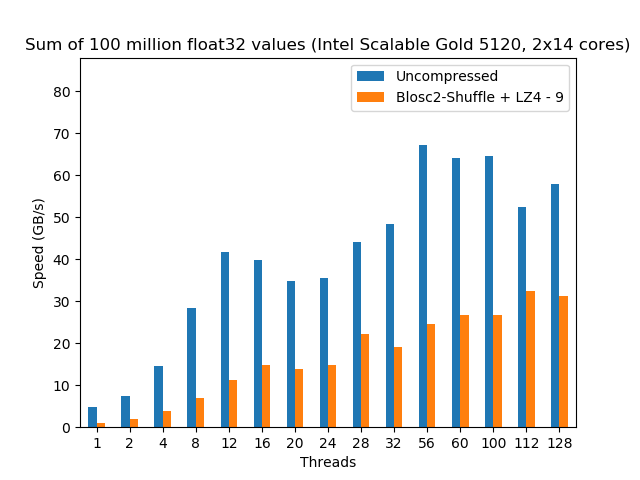
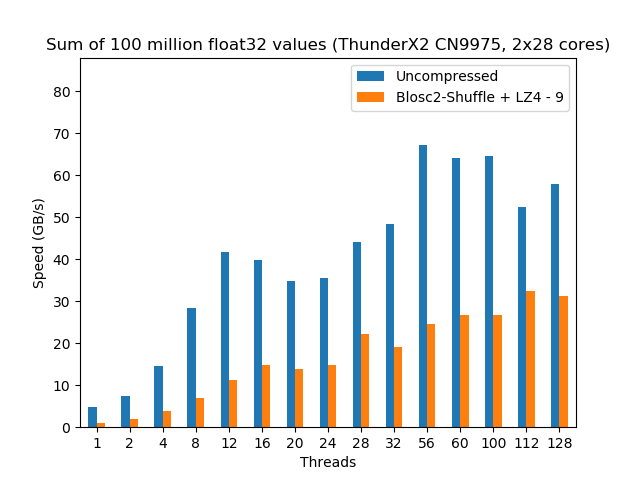
Update plots for ARM and other fixes to eat Intel's pie blog

Changed region(s): [[0.0312, 0.0625, 1.0, 0.125]]

diff --git a/posts/arm-memory-walls-followup.rst b/posts/arm-memory-walls-followup.rst
@@ -14,11 +14,15 @@ Is ARM Hungry Enough to Eat Intel's Favorite Pie?
 
 **Note**: This entry is a follow-up of the `Breaking Down Memory Walls <http://blosc.org/posts/breaking-memory-walls/>`_ blog.  Please make sure that you have read it if you want to fully understand all the benchmarks performed here.
 
-At the beginning of the 1990s the computing world was mainly using RISC (Reduced Instruction Set Computer) architectures, namely SPARC, Alpha, Power and MIPS CPUs for performing serious calculations and Intel CPUs were seen as something that was appropriate just to run essentially personal applications on PCs, but almost nobody was thinking about them as a serious contender for the High Performance Computing (HPC) arena.  But Intel had an argument that almost nobody was ready to recognize how important it could become; with its dominance of the PC market it quickly ranked to be the largest CPU maker in the world and, with such an enormous revenue, Intel played its cards well and, by the beginning of 2000s, they were able to make of its CISC architecture (Complex Instruction Set Computer) the one with the best compute/price ratio, clearly beating the RISC offerings at that time.  That amazing achievement shut the mouths of CISC critics (to the point that nowadays almost everybody recognizes that performance has very little to do with using RISC or CISC) and cleared the path for Intel to dominate not only the PC world, but also the world of HPC for the next 20 years.
+At the beginning of the 1990s the computing world was mainly using RISC (Reduced Instruction Set Computer) architectures, namely SPARC, Alpha, Power and MIPS CPUs for performing serious calculations and Intel CPUs were seen as something that was appropriate just to run essentially personal applications on PCs, but almost nobody was thinking about them as a serious contender for server environments.  But Intel had an argument that almost nobody was ready to recognize how important it could become; with its dominance of the PC market it quickly ranked to be the largest CPU maker in the world and, with such an enormous revenue, Intel played its cards well and, by the beginning of 2000s, they were able to make of its CISC architecture (Complex Instruction Set Computer) the one with the best compute/price ratio, clearly beating the RISC offerings at that time.  That amazing achievement shut the mouths of CISC critics (to the point that nowadays almost everybody recognizes that performance has very little to do with using RISC or CISC) and cleared the path for Intel to dominate not only the PC world, but also the world of server computing for the next 20 years.
 
-Fast forward to the beginning of 2010s, with Intel clearly dominating the market of CPUs for crunching numbers.  However, at the same time something potentially disruptive happened: the market for mobile and embedded systems exploded making `the ARM architecture the most widely used architecture in this area <https://cacm.acm.org/magazines/2011/5/107684-an-interview-with-steve-furber/fulltext>`_.  By 2017, with over 100 billion ARM processors produced, ARM was already the most widely used architecture in the world.  Now, the smart reader will have noted here a clear parallelism between the situation of Intel at the end of 1990s and ARM at the end of 2010s: both companies were responsible of the design of the most used CPUs in the world.  There is an important difference though: while Intel was able to implement its own designs, ARM is leaving the implementation job to third party vendors.  Of course, this fact will have consequences on the way ARM will be competing with Intel (see below).
+Fast forward to the beginning of 2010s, with Intel clearly dominating the market of CPUs for servers.  However, at the same time something potentially disruptive happened: the market for mobile and embedded systems exploded making `the ARM architecture the most widely used architecture in this area <https://cacm.acm.org/magazines/2011/5/107684-an-interview-with-steve-furber/fulltext>`_.  By 2017, with over 100 billion ARM processors produced, ARM was already the most widely used architecture in the world.  Now, the smart reader will have noted here a clear parallelism between the situation of Intel at the end of 1990s and ARM at the end of 2010s: both companies were responsible of the design of the most used CPUs in the world.  There was an important difference though: while Intel was able to implement its own designs, ARM was leaving the implementation job to third party vendors.  Of course, this fact will have consequences on the way ARM will be competing with Intel (see below).
 
-So with ARM CPUs dominating the world of mobile and embedded, the question is whether ARM would be interested in having a stab at the PC market and, by extension, to the high performance computing during the 2020s decade or they will renounce to that because they comfortable enough with the current situation?  In 2018 ARM provided an important hint to answer this question: they really want to push hard for the client market (PCs and laptops) with the `introduction of the Cortex A76 CPU <https://www.anandtech.com/show/13226/arm-unveils-client-cpu-performance-roadmap>`_ which aspires to redefine the capability of ARM to compete with Intel at its own game:
+
+ARM Plans for Improving CPU Performance
+---------------------------------------
+
+So with ARM CPUs dominating the world of mobile and embedded, the question is whether ARM would be interested in having a stab at the client market (laptops and PC desktops) and, by extension, to the server computing market during the 2020s decade or they would renounce to that because they comfortable enough with the current situation?  In 2018 ARM provided an important hint to answer this question: they really want to push hard for the client market with the `introduction of the Cortex A76 CPU <https://www.anandtech.com/show/13226/arm-unveils-client-cpu-performance-roadmap>`_ which aspires to redefine the capability of ARM to compete with Intel at its own game:
 
 .. image:: /images/arm-memory-walls-followup/arm-compute-plans.png
    :scale: 75 %
@@ -32,7 +36,7 @@ In the next sections we are trying to bring more hints (experimentally tested) o
 The Kirin 980 CPU
 -----------------
 
-Here we are going to analyze Huawei's Kirin 980 CPU, a SoC (System On a Chip) that uses the ARM A76 core internally.  This is an example of an internal IP core design of ARM that is licensed to be used in a CPU chipset (or SoC) by another vendor (Huawei in this case).  The Kirin 980 wears 4 A76 cores plus 4 A55 cores, but the more powerful ones are the A76 (the A55 are more headed to do light tasks with very little energy consumption, which is critical for phones).  The A76 core is designed to be implemented with a 7nm technology (as it is the case here), and supports ARM's DynamIQ technology which allows scalability to target the specific requirements of a SoC.  In our case the Kirin 980 is running in a phone (Humawei's Mate 20), and in this scenario the power dissipation (TDP) cannot exceed the 4 W figure, so DynamIQ should try to be very conservative here and avoid putting too many cores active at the same time.
+Here we are going to analyze `Huawei's Kirin 980 CPU <https://www.anandtech.com/show/13503/the-mate-20-mate-20-pro-review>`_ , a SoC (System On a Chip) that uses the ARM A76 core internally.  This is a fine example of an internal IP core design of ARM that is licensed to be used in a CPU chipset (or SoC) by another vendor (Huawei in this case).  The Kirin 980 wears 4 A76 cores plus 4 A55 cores, but the more powerful ones are the A76 (the A55 are more headed to do light tasks with very little energy consumption, which is critical for phones).  The A76 core is designed to be implemented using a 7nm technology (as it is the case for the Kirin 980, the second SoC in the world to use a 7 nm node, after Apple A12), and supports ARM's DynamIQ technology which allows scalability to target the specific requirements of a SoC.  In our case the Kirin 980 is running in a phone (Humawei's Mate 20), and in this scenario the power dissipation (TDP) cannot exceed the 4 W figure, so DynamIQ should try to be very conservative here and avoid putting too many cores active at the same time.
 
 ARM is saying that they designed the `A76 to be a competitor of the Intel Skylake Core i5 <https://arstechnica.com/gadgets/2018/06/arm-promises-laptop-level-performance-in-2019/>`_, so this is what we are going to check here.  For this, we are going to compare a Kirin 980 in a Huawei Mate 20 phone against a Core i5 included in a MacBook Pro (late 2016).  Here it is the side-by-side performance for the precipitation dataset that I used in the `previous blog <http://blosc.org/posts/breaking-memory-walls/>`_:
 
@@ -50,7 +54,7 @@ Here we can already see a couple of things.  First, the speed of the calculation
 
 Second, for the compressed case, the Core i5 is still a 50% faster than the Kirin 980, but the performance scales similarly (up to 4 threads) for both CPUs.  The big news here is that the Core i5 has a TDP of 28 W, whereas for the Kirin 980 is just 4 W (and probably less than that), so that means that ARM's DynamIQ works beautifully so as to allow 4 (powerful) cores to run simultaneously in such a restrictive scenario (remember that we are running this benchmark *inside a phone*).  It is also true that we are comparing an Intel CPU from 2016 against an ARM CPU from 2018 and that nowadays probably we can find Intel exemplars showing a similar performance than this i5 for probably no more than 10 W (e.g. an `i5-8265U with configurable TDP-down <https://ark.intel.com/products/149088/Intel-Core-i5-8265U-Processor-6M-Cache-up-to-3-90-GHz->`_), although I am not really sure how an Intel CPU will perform with such a strict power constraint.  At any rate, the Kirin 980 still consumes less than half of the power than its Intel counterpart --and its price would probably be a fraction of it too.
 
-I believe that these facts are really a good testimony of how serious ARM was on their claim that they were going to catch Intel in the performance side of the things for client devices, and probably with an important advantage in consuming less energy too.  The fact that ARM CPUs are more energy efficient should not be surprising given the experience of ARM in that area for decades.  But another reason for that is the important reduction in the manufacturing technology that ARM has achieved on their new designs (7nm node for ARM vs 14nm node for Intel); undoubtedly, ARM advantage in this area is going to be important for their world-domination plans.
+I believe that these facts are really a good testimony of how serious ARM was on their claim that they were going to catch Intel in the performance side of the things for client devices, and probably with an important advantage in consuming less energy too.  The fact that ARM CPUs are more energy efficient should not be surprising given the experience of ARM in that area for decades.  But another reason for that is the important reduction in the manufacturing technology that ARM has achieved on their new designs (7nm node for ARM vs 14nm node for Intel); undoubtedly, ARM advantage in power consumption is going to be important for their world-domination plans.
 
 
 The ThunderX2 CPU
@@ -70,21 +74,21 @@ So as to check how powerful a ThunderX2 can be, we are going to compare `Thunder
 | |rainfall-thunderx2| | |rainfall-scalable| |
 +----------------------+---------------------+
 
-Here we see that, when no compression is used, while it is true that the Intel scales much better and more predictably, the ThunderX2 is able to reach a similar performance (almost 70 GB/s) than the Intel Scalable when enough threads are thrown at the computing task.  This is a really interesting fact, because it is showing that, for first time ever, an ARM CPU can match the memory bandwidth of a latest generation Intel CPU (which BTW, was pretty good at that already).
+Here we see that, when no compression is used, the Intel instance scales much better and more predictably; however the ThunderX2 is able to reach a similar performance (almost 70 GB/s) than the Intel when enough threads are thrown at the computing task.  This is a really interesting fact, because it is showing that, for first time ever, an ARM CPU can match the memory bandwidth of a latest generation Intel CPU (which BTW, was pretty good at that already).
 
- Regarding the compressed scenario, Intel Scalable still performs more than 2x faster and besides, it continues to show a really nice scalability.  In this case, the ThunderX2, although it performs quite well, it is still quite far from being able to reach Intel in terms of raw computing performance.
+ Regarding the compressed scenario, Intel Scalable still performs more than 2x faster and it continues to show a really nice scalability.  With regards to the ThunderX2, although it performs quite well, it is still quite far from being able to reach Intel in terms of raw computing performance and scalability.
 
-I was not able to find the exact power consumption of the ThunderX2 CN9975 model that has been used in the benchmarks above, but it is probably in the range of 150 W per CPU, which is quite larger than the Intel Scalable 5120 counterpart which is around 100 W per CPU.  That means that Intel is using quite far less power in this CPU, which gives it a clear advantage in server computing for now.
+Incidentally, I was not able to find the exact power consumption of the ThunderX2 CN9975 model that has been used in the benchmarks above, but it is probably in the range of 150 W per CPU, which is quite larger than the Intel Scalable 5120 counterpart which is around 100 W per CPU.  That means that Intel is using quite far less power in this CPU, which gives them a clear advantage in server computing for now.
 
 
 Final Thoughts
 --------------
 
-From these results, it is quite evident that ARM is making large strides in catching Intel performance, specially in the client side of the things (laptops, and small desktops), with an important reduction in power consumption, which is important specially for laptops.  Keep these facts in mind when you are going to buy your next laptop or desktop PC and do not blindly assume that Intel is the only reasonable option anymore ;-)
+From these results, it is quite evident that ARM is making large strides in catching Intel performance, specially in the client side of the things (laptops, and PC desktops), with an important reduction in power consumption, which is specially important for laptops.  Keep these facts in mind when you are going to buy your next laptop or desktop PC and do not blindly assume that Intel is the only reasonable option anymore ;-)
 
-On the server side, Intel still holds an important advantage though, and it will not be easy to take the performance crown away from them.  However, the fact that ARM is allowing different vendors to produce their own implementations means that the competition will be more aggressive in that each vendor will be free to tackle different aspects of server computing.  So it is not difficult to realize that in the next few years there will appear new ARM exemplars that will be meant not only for crunching numbers, but that will also specialize in different tasks, like serving and filtering data, accelerating compression or artificial intelligence, to say a few (for example, `Marvell is trying to position the ThunderX2 more specifically for the data server scenario <https://www.marvell.com/documents/8ru3g25b5f77f5pbjwl9/>`_) that are going to put Intel architectures in difficulties to maintain its current dominance in the data centers.
+On the server side, Intel still holds an important advantage though, and it will not be easy to take the performance crown away from them.  However, the fact that ARM is allowing different vendors to produce their own implementations means that the competition will be more aggressive in that each vendor will be free to tackle different aspects of server computing.  So it is not difficult to realize that in the next few years we are going to see new ARM exemplars that will be meant not only for crunching numbers, but that will also specialize in different tasks, like storing and serving big data, routing data or performing artificial intelligence, to just mention a few cases (for example, `Marvell is trying to position the ThunderX2 more specifically for the data server scenario <https://www.marvell.com/documents/8ru3g25b5f77f5pbjwl9/>`_) that are going to put Intel architectures in difficulties to maintain its current dominance in the data centers.
 
-Finally, we should not forget the fact that software developers have been building high performance libraries using Intel boxes for decades, so making them extremely efficient for Intel architectures.  If, as all the signs seem pointing to, ARM architectures are going to be an alternative in the high performance scenario, then software developers (like myself) will have to increasingly adopt ARM boxes as part of their tooling so as to continue being competitive in a world that would not necessarily be ruled by Intel anymore.
+Finally, we should not forget the fact that software developers (including myself) have been building high performance libraries using exclusively Intel boxes for *decades*, so making them extremely efficient for Intel architectures.  If, as all the signs seem pointing to, ARM architectures are going to be an alternative in the performance client and server scenarios, then software developers will have to increasingly adopt ARM boxes as part of their tooling so as to continue being competitive in a world that is quite likely that it won't necessarily be ruled by Intel anymore.
 
 
 Acknowledgements
